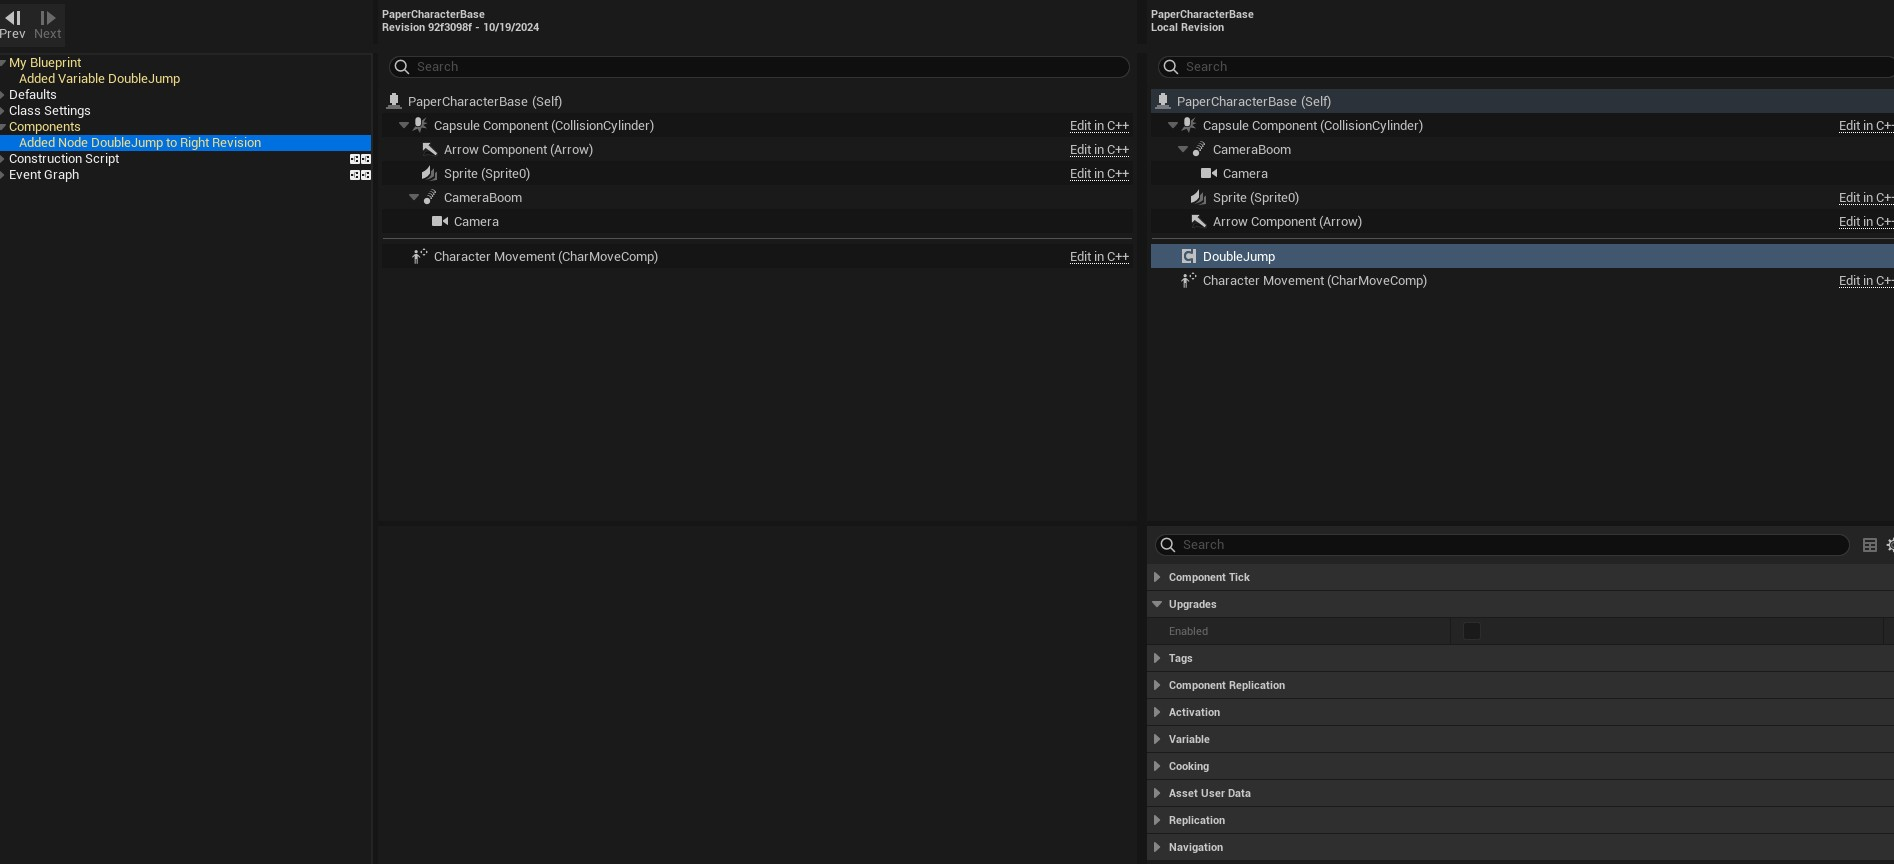
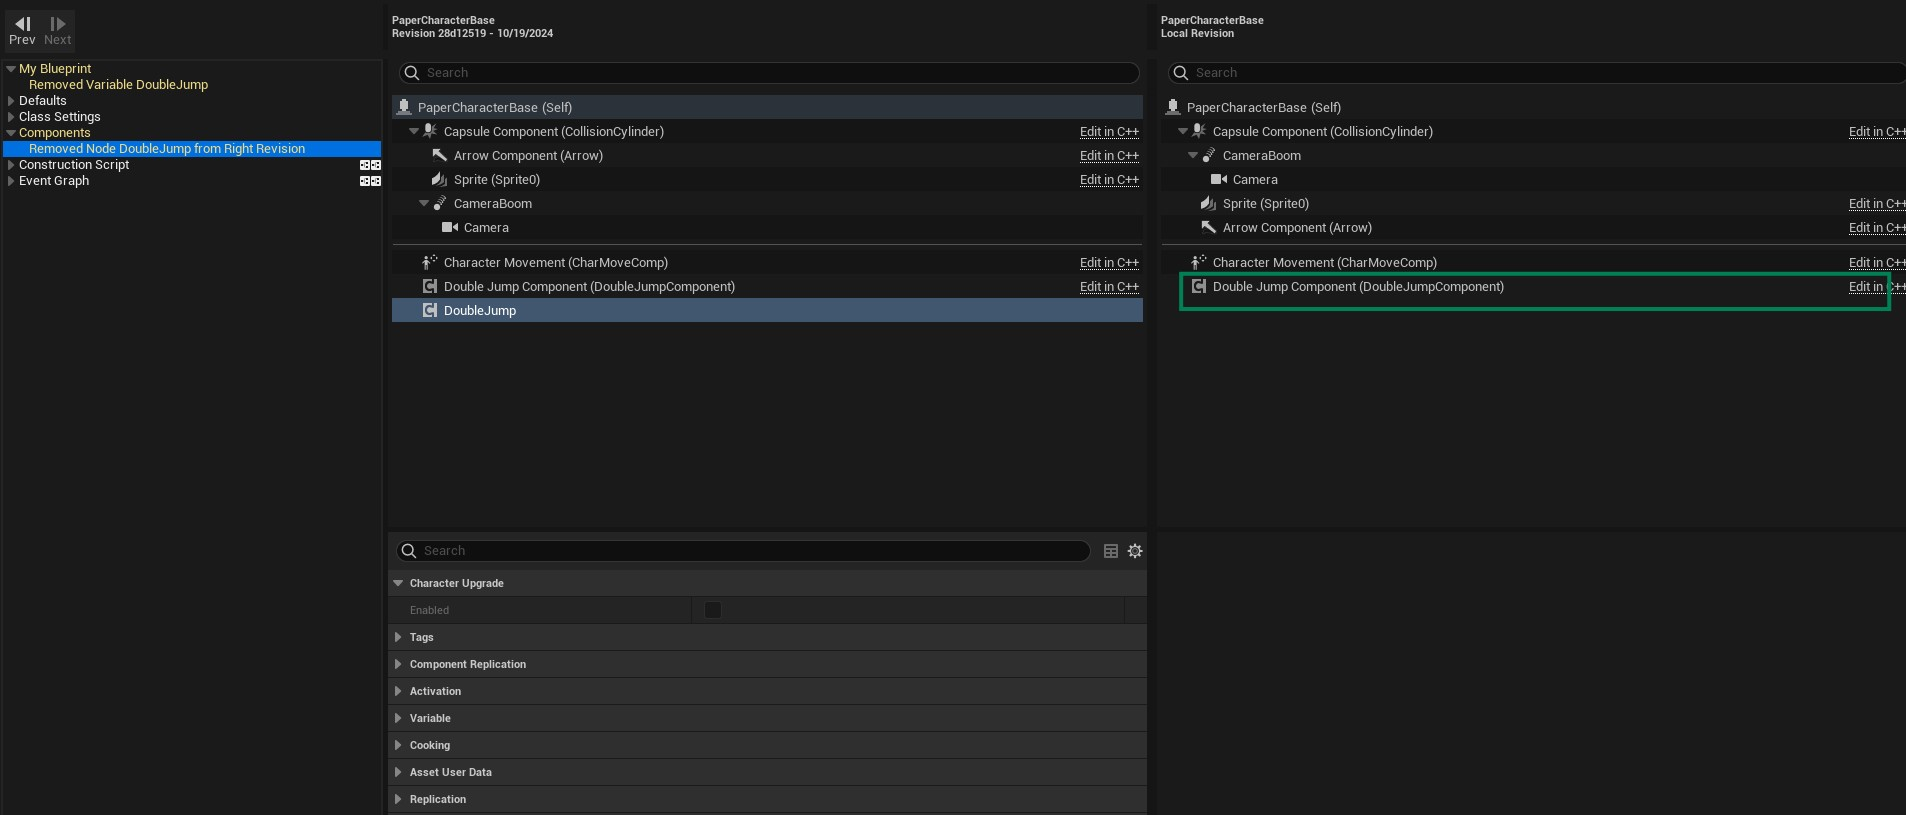
[Update] Double Jump component referenced by code

diff --git a/GameJamPlus2024/Source/GameJamPlus2024/Public/PaperCharacterBase.h b/GameJamPlus2024/Source/GameJamPlus2024/Public/PaperCharacterBase.h
@@ -3,6 +3,7 @@
 #pragma once
 
 #include "CoreMinimal.h"
+#include "DoubleJumpComponent.h"
 #include "InputActionValue.h"
 #include "PaperCharacter.h"
 #include "PaperFlipbook.h"
@@ -37,6 +38,9 @@ class GAMEJAMPLUS2024_API APaperCharacterBase : public APaperCharacter
 
 public:
 	APaperCharacterBase();
+
+	UPROPERTY(VisibleAnywhere, BlueprintReadOnly, Category = "Upgrades", meta = (AllowPrivate))
+	UDoubleJumpComponent* DoubleJumpComponent;
 
 protected:
 	UPROPERTY(EditAnywhere, BlueprintReadWrite, Category = "Input", meta = (AllowPrivate = "true"))

diff --git a/GameJamPlus2024/Source/GameJamPlus2024/Public/CharacterUpgrade.h b/GameJamPlus2024/Source/GameJamPlus2024/Public/CharacterUpgrade.h
@@ -12,7 +12,7 @@ class GAMEJAMPLUS2024_API UCharacterUpgrade : public UActorComponent
 {
 	GENERATED_BODY()
 	
-	UPROPERTY(VisibleAnywhere, BlueprintReadOnly, Category= "Upgrades", meta = (AllowPrivateAccess = "true"))
+	UPROPERTY(VisibleAnywhere, BlueprintReadOnly, meta = (AllowPrivateAccess = "true"))
 	bool bEnabled = false;
 	
 public:	

diff --git a/GameJamPlus2024/Source/GameJamPlus2024/Private/PaperCharacterBase.cpp b/GameJamPlus2024/Source/GameJamPlus2024/Private/PaperCharacterBase.cpp
@@ -10,6 +10,7 @@
 
 APaperCharacterBase::APaperCharacterBase()
 {
+	DoubleJumpComponent = CreateDefaultSubobject<UDoubleJumpComponent>(TEXT("DoubleJumpComponent"));
 }
 
 
